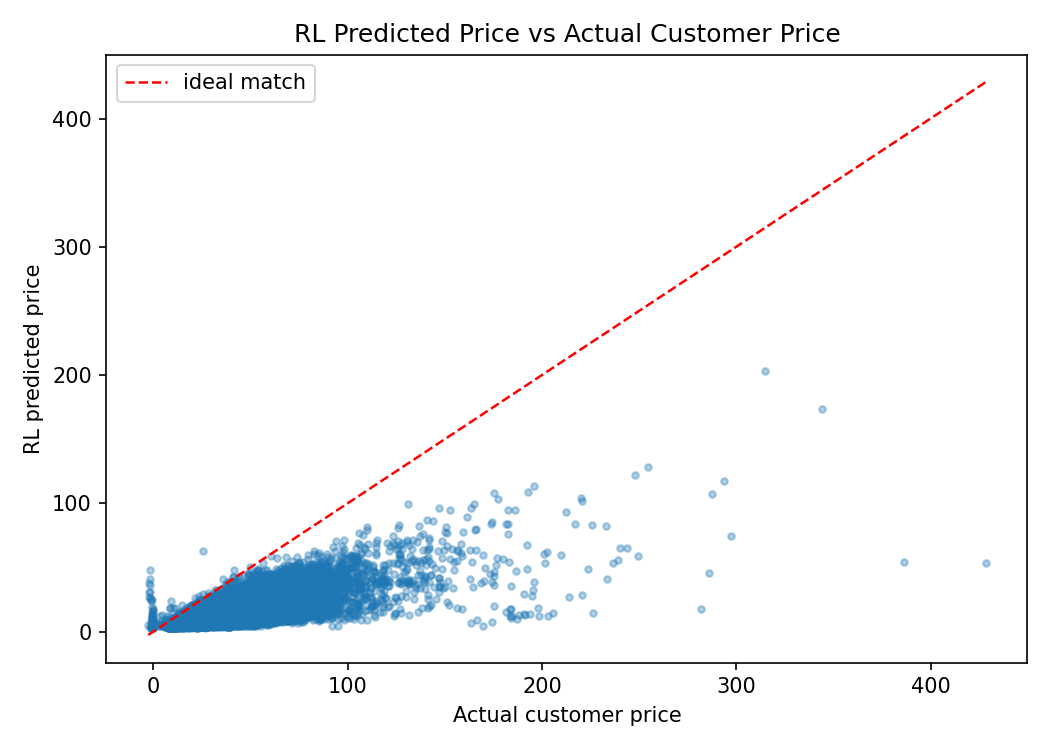
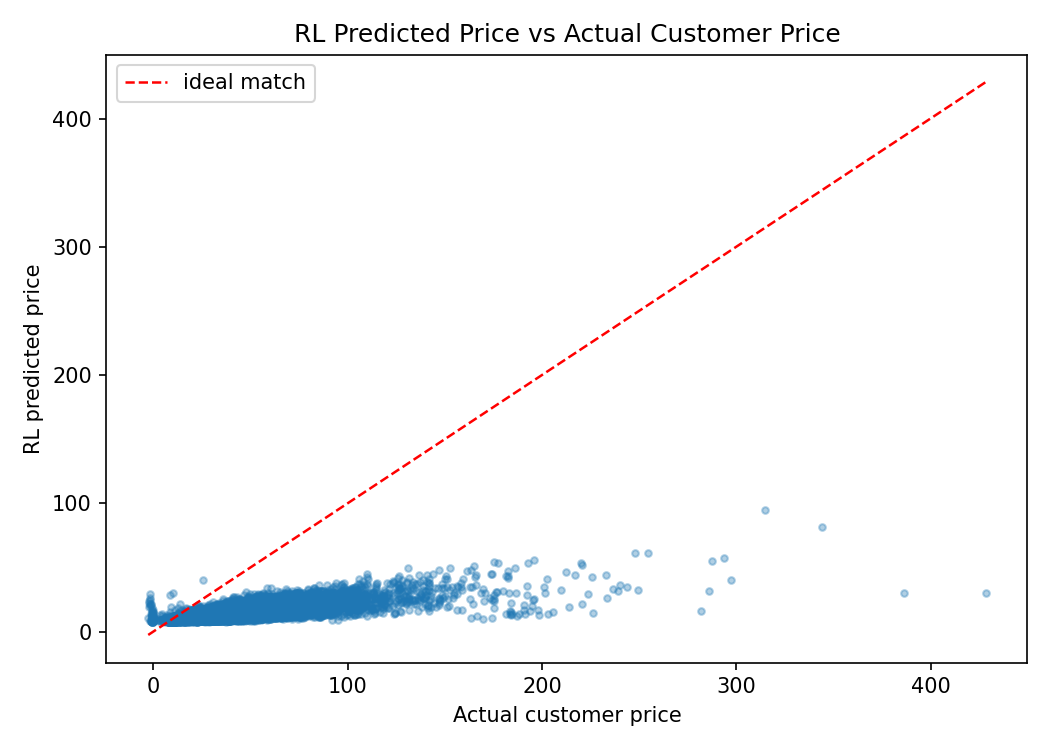
utility function to price threshold

diff --git a/Core.py b/Core.py
@@ -251,8 +251,6 @@ def _iter_tabular_rows(fpath: str):
             yield fieldnames, records
         return
 
-
-
 def _infer_service_level(row: Dict[str, Any]) -> str:
     service_text = str(_pick_value(row, ["service", "name", "cab_type", "product_name", "product_id", "business", "Business"]) or "").lower()
     premium_markers = ["black", "lux", "luxury", "prem", "premium", "select", "suv"]
@@ -377,7 +375,7 @@ class Core:
         if choice_mode in {"llm", "cognitive"}:
             self.choice_model = LLMChoiceModel(model_name=model_name, api_key=self.openai_api_key, seed=self.seed)
             if self.openai_api_key is None:
-                print("[Core] No OpenAI key found; GPT utility bootstrapping will use deterministic fallback weights.")
+                print("[Core] No OpenAI key found; GPT price-threshold bootstrapping will use deterministic fallback thresholds.")
         else:
             self.choice_model = ParametricChoiceModel(seed=self.seed)
 
@@ -697,15 +695,29 @@ class Core:
                         chunks.append(txt)
         return "\n".join(chunks).strip()
 
-    def _gpt_profile_utility(self, profile: Dict[str, Any], rides: List[Dict[str, Any]]) -> Dict[str, Any]:
-        fallback_weights = {"price_weight": 1.0, "loyalty_weight": 1.0, "risk_weight": 1.0, "comfort_weight": 1.0}
-        fallback = {
-            "weights": fallback_weights,
-            "utility_function": "U = w_price*price_term + w_loyalty*loyalty_term + w_risk*risk_term + w_comfort*comfort_term",
-            "rationale": "Deterministic fallback utility function (no API response).",
-            "source": "fallback",
-        }
+    @staticmethod
+    def _fallback_price_threshold(profile: Dict[str, Any], priced_rides: List[Dict[str, Any]]) -> float:
+        """Estimate the fare-gap threshold at which price becomes salient for a rider."""
+        income_score = {"<50k": 0.0, "50k-100k": 0.3, "100k-200k": 0.7, "200k+": 1.0}.get(
+            str(profile.get("IncomeBracket", "50k-100k")),
+            0.3,
+        )
+        household = int(profile.get("HouseholdSize", 1) or 1)
+        loyalty_strength = float(profile.get("LoyaltyStrength", 0.0) or 0.0)
+        is_returning = str(profile.get("LoyaltyType", "New")) == "Returning"
+        mean_fare = 15.0
+        if priced_rides:
+            fares = [float(r.get("firm1_price", 0.0)) for r in priced_rides] + [float(r.get("firm2_price", 0.0)) for r in priced_rides]
+            valid_fares = [fare for fare in fares if fare > 0.0]
+            if valid_fares:
+                mean_fare = float(np.mean(valid_fares))
 
+        threshold = 0.55 + 1.65 * income_score + 0.04 * mean_fare
+        threshold -= 0.18 * min(max(household - 1, 0), 3)
+        threshold += (0.35 + 0.45 * loyalty_strength) if is_returning else 0.0
+        return float(np.clip(threshold, 0.50, 5.00))
+
+    def _gpt_profile_price_threshold(self, profile: Dict[str, Any], rides: List[Dict[str, Any]]) -> Dict[str, Any]:
         priced = []
         for r in rides[:10]:
             rc = RideContext(
@@ -718,25 +730,32 @@ class Core:
             p1 = float(self.market.quote_price(float(r.get("DistanceMiles", 0.0)), float(r.get("DurationMinutes", 15.0)), rc, overrides=self.firm1.overrides))
             p2 = float(self.market.quote_price(float(r.get("DistanceMiles", 0.0)), float(r.get("DurationMinutes", 15.0)), rc, overrides=self.firm2.overrides))
             priced.append({**r, "firm1_price": p1, "firm2_price": p2})
+        
+        fallback = {
+            "price_threshold": self._fallback_price_threshold(profile, priced),
+            "rationale": "Deterministic fallback price threshold (no API response).",
+            "source": "fallback",
+        }
+        
         if not self.openai_api_key:
             return fallback
         prompt = {
             "task": (
-                "Infer a rider-level utility function from one profile and ten cold-start rides. "
-                "Return JSON with keys: weights, utility_function, rationale. "
-                "weights must include price_weight, loyalty_weight, risk_weight, comfort_weight, each in [0.6,1.6]."
+                "Infer one rider-level price threshold from one customer profile and ten cold-start rides. "
+                "The threshold is the dollar fare gap at which this customer starts treating price as a primary decision factor. "
+                "Return JSON with keys: price_threshold, rationale. Do not return utility functions or utility weights."
             ),
             "profile": profile,
             "coldstart_rides": priced[:10],
             "output_constraints": {
                 "format": "json_only",
-                "weights_range": [0.6, 1.6],
+                "price_threshold_range_usd": [0.50, 5.00],
             },
         }
         try:
             req = urllib.request.Request(
                 "https://api.openai.com/v1/responses",
-                data=json.dumps({"model": self.model_name, "input": json.dumps(prompt), "max_output_tokens": 260}).encode("utf-8"),
+                data=json.dumps({"model": self.model_name, "input": json.dumps(prompt), "max_output_tokens": 180}).encode("utf-8"),
                 headers={"Authorization": f"Bearer {self.openai_api_key}", "Content-Type": "application/json"},
                 method="POST",
             )
@@ -745,14 +764,9 @@ class Core:
             
             text = self._extract_response_text(payload)
             parsed = json.loads(text) if text else {}
-            raw_weights = parsed.get("weights", parsed)
-            weights = {
-                k: float(np.clip(raw_weights.get(k, v), 0.6, 1.6))
-                for k, v in fallback_weights.items()
-            }
+            raw_threshold = parsed.get("price_threshold", parsed.get("price_threshold_usd", fallback["price_threshold"]))
             return {
-                "weights": weights,
-                "utility_function": str(parsed.get("utility_function", fallback["utility_function"])),
+                "price_threshold": float(np.clip(float(raw_threshold), 0.50, 5.00)),
                 "rationale": str(parsed.get("rationale", "")),
                 "source": "gpt",
             }
@@ -762,23 +776,22 @@ class Core:
     def _bootstrap_synthetic_profiles(self, pool_size: int) -> None:
         base_profiles = self.agent_gen.sample_profiles(int(max(1, pool_size)))
         self.synthetic_profile_pool = []
-        utility_source_counts: Dict[str, int] = {}
+        threshold_source_counts: Dict[str, int] = {}
         for p in base_profiles:
             coldstart_rides = self._build_coldstart_rides(n=10)
-            util = self._gpt_profile_utility(profile=p, rides=coldstart_rides)
-            src = str(util.get("source", "fallback"))
-            utility_source_counts[src] = int(utility_source_counts.get(src, 0) + 1)
+            threshold = self._gpt_profile_price_threshold(profile=p, rides=coldstart_rides)
+            src = str(threshold.get("source", "fallback"))
+            threshold_source_counts[src] = int(threshold_source_counts.get(src, 0) + 1)
             self.synthetic_profile_pool.append({
                 **p,
                 "ColdstartRides": coldstart_rides,
-                "UtilityWeights": util["weights"],
-                "UtilityFunction": util["utility_function"],
-                "UtilityRationale": util.get("rationale", ""),
-                "UtilitySource": src,
+                "PriceThreshold": float(threshold["price_threshold"]),
+                "PriceThresholdRationale": threshold.get("rationale", ""),
+                "PriceThresholdSource": src,
             })
         print(
-            ">>> Utility bootstrap sources: "
-            + ", ".join(f"{k}={v}" for k, v in sorted(utility_source_counts.items()))
+            ">>> Price-threshold bootstrap sources: "
+            + ", ".join(f"{k}={v}" for k, v in sorted(threshold_source_counts.items()))
         )
 
     def _sample_profiles_from_pool(self, n: int) -> List[Dict[str, Any]]:

diff --git a/choice_models.py b/choice_models.py
@@ -83,7 +83,7 @@ class CognitiveChoiceModel(BaseChoiceModel):
     Higher-fidelity behavioral model for rider platform choice.
 
     Utility(Firm1 - Firm2) combines:
-    - Economic utility: nonlinear price pain with rider heterogeneity
+    - Economic utility: nonlinear price pain with rider heterogeneity and rider-level price thresholds
     - Habit/loyalty inertia: persistent preference for prior platform
     - Reliability-risk sensitivity: stronger in airport, bad weather, rush periods
     - Convenience effects: trip urgency and service context
@@ -141,11 +141,7 @@ class CognitiveChoiceModel(BaseChoiceModel):
         weekend = day >= 5
         bad_weather = weather in {"rain", "snow", "storm"}
         
-        util_w = profile.get("UtilityWeights", {}) if isinstance(profile.get("UtilityWeights", {}), dict) else {}
-        w_price = float(util_w.get("price_weight", 1.0))
-        w_loyalty = float(util_w.get("loyalty_weight", 1.0))
-        w_risk = float(util_w.get("risk_weight", 1.0))
-        w_comfort = float(util_w.get("comfort_weight", 1.0))
+        price_threshold = float(np.clip(float(profile.get("PriceThreshold", 1.50) or 1.50), 0.25, 8.00))
 
         # ---- Economic utility ----
         # Low income + larger household -> stronger price pain.
@@ -154,16 +150,20 @@ class CognitiveChoiceModel(BaseChoiceModel):
         urgency = 0.40 * float(rush) + 0.35 * float(bad_weather) + 0.30 * float(airport)
         shopping_intensity = max(0.45, 1.0 - 0.45 * urgency)
 
-        # Nonlinear price pain: people react more strongly to larger fare gaps.
+        # Nonlinear price pain: people react more strongly once a fare gap clears
+        # their rider-specific threshold. Smaller gaps still matter, but are less salient.
         price_gap = float(price2 - price1)
-        price_term = w_price * price_sensitivity * np.sign(price_gap) * (abs(price_gap) ** 0.92) * shopping_intensity
+        threshold_ratio = abs(price_gap) / max(price_threshold, 1e-6)
+        price_salience = 0.35 + 0.65 * min(threshold_ratio, 1.0) + 0.25 * max(threshold_ratio - 1.0, 0.0)
+        price_salience = float(np.clip(price_salience, 0.20, 2.25))
+        price_term = price_sensitivity * np.sign(price_gap) * (abs(price_gap) ** 0.92) * shopping_intensity * price_salience
 
         # ---- Habit / loyalty ----
         loyalty_term = 0.0
         if loyalty_firm == "Firm1":
-            loyalty_term = +0.85 * self.loyalty_scale * loyalty_strength * w_loyalty
+            loyalty_term = +0.85 * self.loyalty_scale * loyalty_strength
         elif loyalty_firm == "Firm2":
-            loyalty_term = -0.85 * self.loyalty_scale * loyalty_strength * w_loyalty
+            loyalty_term = -0.85 * self.loyalty_scale * loyalty_strength
 
         # Inertia for non-loyal users near ties.
         habit_inertia = 0.0
@@ -177,12 +177,12 @@ class CognitiveChoiceModel(BaseChoiceModel):
         
         # Small structural preference drift (can be calibrated later with data).
         reliability_bias_firm1 = 0.02
-        reliability_term = reliability_pressure * reliability_bias_firm1 * self.reliability_scale * w_risk
+        reliability_term = reliability_pressure * reliability_bias_firm1 * self.reliability_scale
         
         # Convenience/service framing: premium riders less price-sensitive and more inertial.
         comfort_term = 0.0
         if service == "premium":
-            comfort_term = (0.05 + 0.10 * income_score) * w_comfort
+            comfort_term = 0.05 + 0.10 * income_score
         
         # Longer trips => stronger reaction to absolute gap.
         trip_scale = 1.0 + 0.06 * min(distance / 10.0, 2.0)
@@ -198,7 +198,7 @@ class CognitiveChoiceModel(BaseChoiceModel):
         choice = "Firm1" if choose_f1 else "Firm2"
         
         reasons: List[str] = []
-        if abs(price_gap) >= 0.75:
+        if abs(price_gap) >= price_threshold:
             reasons.append("PRICE")
         if loyalty_firm is not None and loyalty_strength > 0.2:
             reasons.append("LOYALTY")
@@ -228,12 +228,12 @@ class LLMChoiceModel(CognitiveChoiceModel):
     """
     Backward-compatible alias.
 
-    GPT-assisted rider utility generation is handled at profile bootstrap time in Core.
-    At choice time this class consumes profile-level UtilityWeights produced upstream.
+    GPT-assisted rider price-threshold generation is handled at profile bootstrap time in Core.
+    At choice time this class consumes profile-level PriceThreshold values produced upstream.
     """
 
     def __init__(self, model_name: str = "gpt-4o-mini", api_key: Optional[str] = None, seed: Optional[int] = None):
         self.model_name = model_name
         self.api_key = api_key
         super().__init__(seed=seed)
-        print("[ChoiceModel] GPT profile-utility mode enabled (weights consumed from profile).")
+        print("[ChoiceModel] GPT price-threshold mode enabled (thresholds consumed from profile).")
